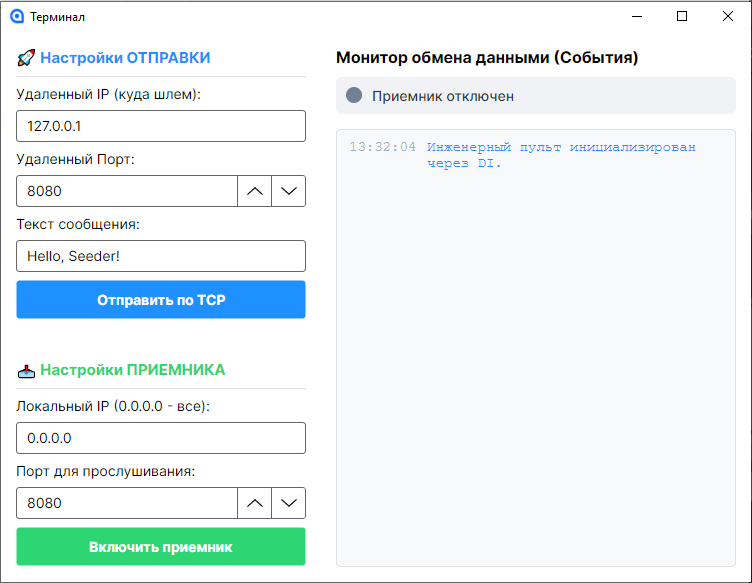
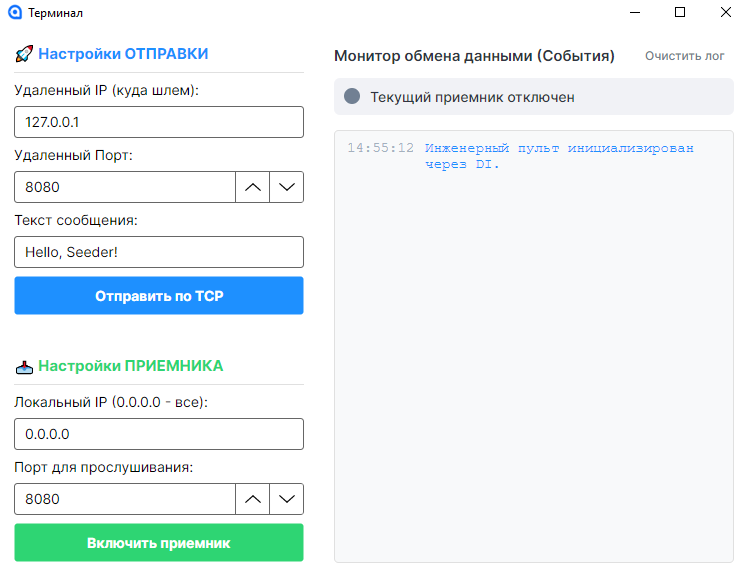
Added Clear Log

diff --git a/SeederControlTerminal/ViewModels/MainViewModel.cs b/SeederControlTerminal/ViewModels/MainViewModel.cs
@@ -39,12 +39,15 @@ namespace SeederControlTerminal.ViewModels
         public string ConnectionStatus => IsReceiverStarted ? $"Текущий приемник активен. Слушаю порт {ReceiverPort}..." : "Текущий приемник отключен";
         public string StatusColor => IsReceiverStarted ? "#2ed573" : "#718093";
         public bool IsReceiverFieldsEnabled => !IsReceiverStarted;
+        public string ReceiverButtonColor => IsReceiverStarted ? "#ff4757" : "#2ed573";
+
 
         // UI теперь биндится прямо к коллекции разноцветных записей
         public ObservableCollection<LogEntry> LogEntries => _logService.Entries;
 
         public ICommand SendMessageCommand { get; }
         public ICommand ToggleReceiverCommand { get; }
+        public ICommand ClearLogCommand { get; }
 
         public MainWindowViewModel(IMessageSender messageSender, ILogService logService)
         {
@@ -67,6 +70,7 @@ namespace SeederControlTerminal.ViewModels
             );
             SendMessageCommand = ReactiveCommand.CreateFromTask(SendMessageAsync, canSend);
             ToggleReceiverCommand = ReactiveCommand.Create(ToggleReceiver);
+            ClearLogCommand = ReactiveCommand.Create(() => _logService.Clear());
         }
 
         private void ToggleReceiver()
@@ -87,6 +91,7 @@ namespace SeederControlTerminal.ViewModels
             this.RaisePropertyChanged(nameof(ConnectionStatus));
             this.RaisePropertyChanged(nameof(StatusColor));
             this.RaisePropertyChanged(nameof(IsReceiverFieldsEnabled));
+            this.RaisePropertyChanged(nameof(ReceiverButtonColor));
         }
 
         private void HandleIncomingMessage(string jsonMessage)

diff --git a/SeederControlTerminal/Services/Log/LogService.cs b/SeederControlTerminal/Services/Log/LogService.cs
@@ -21,5 +21,13 @@ namespace SeederControlTerminal.Services.Log
                 Entries.Add(new LogEntry { Message = message, Color = color });
             });
         }
+
+        public void Clear()
+        {
+            Avalonia.Threading.Dispatcher.UIThread.Post(() =>
+            {
+                Entries.Clear();
+            });
+        }
     }
 }

diff --git a/SeederControlTerminal/Services/Log/ILogService.cs b/SeederControlTerminal/Services/Log/ILogService.cs
@@ -10,5 +10,6 @@ namespace SeederControlTerminal.Services.Log
         void Success(string message);
         void Warning(string message);
         void Error(string message);
+        void Clear();
     }
 }
